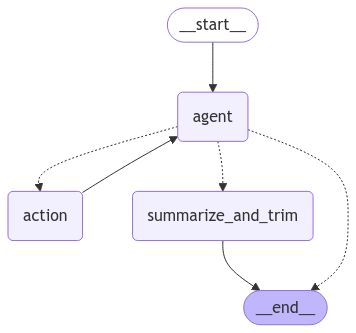
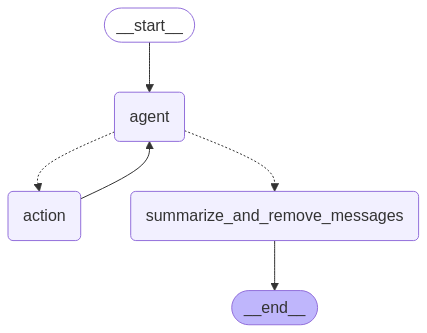
update README.md and collataral

diff --git a/README.md b/README.md
@@ -125,17 +125,16 @@ LangGraph powers the conversation agent, enabling you to create stateful, multi-
 
 The agent workflow has five nodes, each Python module modifying the agent's state, a shared data structure. The edges between the nodes represent the allowed transitions between them, with solid lines unconditional and dashed lines conditional. Nodes do the work, and edges tell what to do next.
 
-The ```__start__``` and ```__end__``` nodes inform the graph where to start and stop. The ```agent``` node runs the primary LLM, and if it decides to use a tool, the ```action``` node runs the tool and then returns control to the ```agent```. The ```summarize_and_trim``` node processes the LLM's context to manage growth while maintaining accuracy if ```agent``` has no tool to call and the number of messages meets the below-mentioned conditions.
+The ```__start__``` and ```__end__``` nodes inform the graph where to start and stop. The ```agent``` node runs the primary LLM, and if it decides to use a tool, the ```action``` node runs the tool and then returns control to the ```agent```. The ```summarize_and_remove_messages``` node processes the LLM's context to manage growth while maintaining accuracy if ```agent``` has no tool to call and message trimming is required to manage the LLM context.
 
 ### LLM Context Management
-You need to carefully manage the context length of LLMs to balance cost, accuracy, and latency and avoid triggering rate limits such as OpenAI's Tokens per Minute restriction. The system controls the context length of the primary model in two ways: it trims the messages in the context if they exceed a max parameter which can be expressed in either tokens or messages, and the context is summarized once the number of messages exceeds another parameter. These parameters are configurable in `const.py`; their description is below.
+You need to carefully manage the context length of LLMs to balance cost, accuracy, and latency and avoid triggering rate limits such as OpenAI's Tokens per Minute restriction. The system controls the context length of the primary model by trimming the messages in the context if they exceed a max parameter which can be expressed in either tokens or messages, and the trimmed messages are replaced by a shorter summary inserted into the system message. These parameters are configurable in `const.py`; their description is below.
 
 Parameter | Description | Default
 -- | -- | -- |
-`CONTEXT_MAX_MESSAGES` |  Messages to keep in context before deletion | 100
-`CONTEXT_MAX_TOKENS` | Tokens to keep in context before deletion | 25000
+`CONTEXT_MAX_MESSAGES` |  Messages to keep in context before deletion | 80
+`CONTEXT_MAX_TOKENS` | Tokens to keep in context before deletion | 25600
 `CONTEXT_MANAGE_USE_TOKENS` | If True, use tokens to manage context, else use messages | True
-`CONTEXT_SUMMARIZE_THRESHOLD` | Messages in context before summary generation | 20
 
 The `summarize_and_trim` node in the graph may trim the messages only after content summarization.
 
